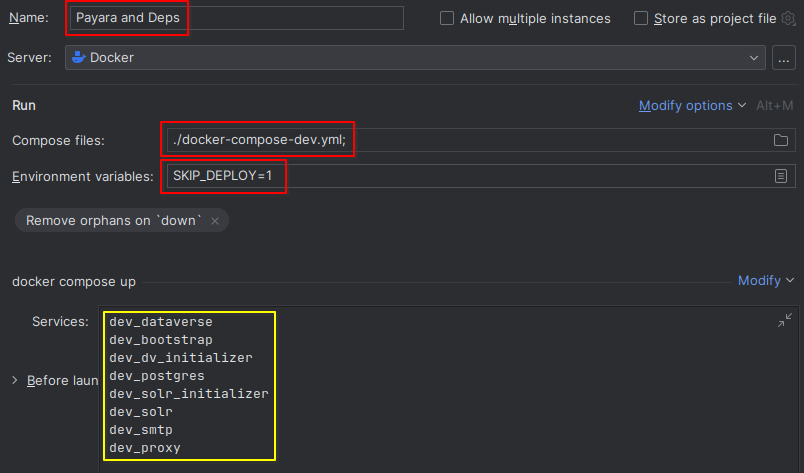
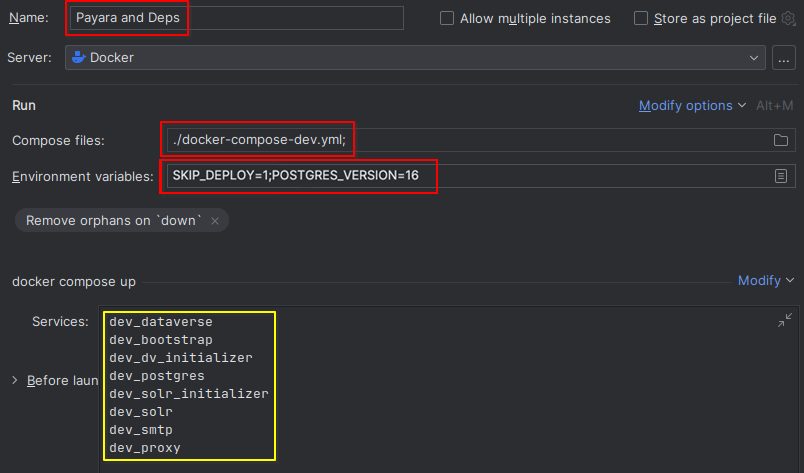
Missing env var

Changed region(s): [[0.2177, 0.3256, 0.5597, 0.4144]]

diff --git a/doc/sphinx-guides/source/container/dev-usage.rst b/doc/sphinx-guides/source/container/dev-usage.rst
@@ -263,7 +263,7 @@ Hotswapping methods requires using JDWP (Debug Mode), but does not allow switchi
 
         .. image:: img/intellij-compose-add-new-config.png
 
-        Give your configuration a meaningful name, select the compose file to use (in this case the default one), add the environment variable ``SKIP_DEPLOY=1``, and optionally select the services to start.
+        Give your configuration a meaningful name, select the compose file to use (in this case the default one), add the environment variables ``SKIP_DEPLOY=1`` and ``POSTGRES_VERSION=16``, optionally select the services to start.
         You might also want to change other options like attaching to containers to view the logs within the "Services" tab.
 
         .. image:: img/intellij-compose-setup.png
